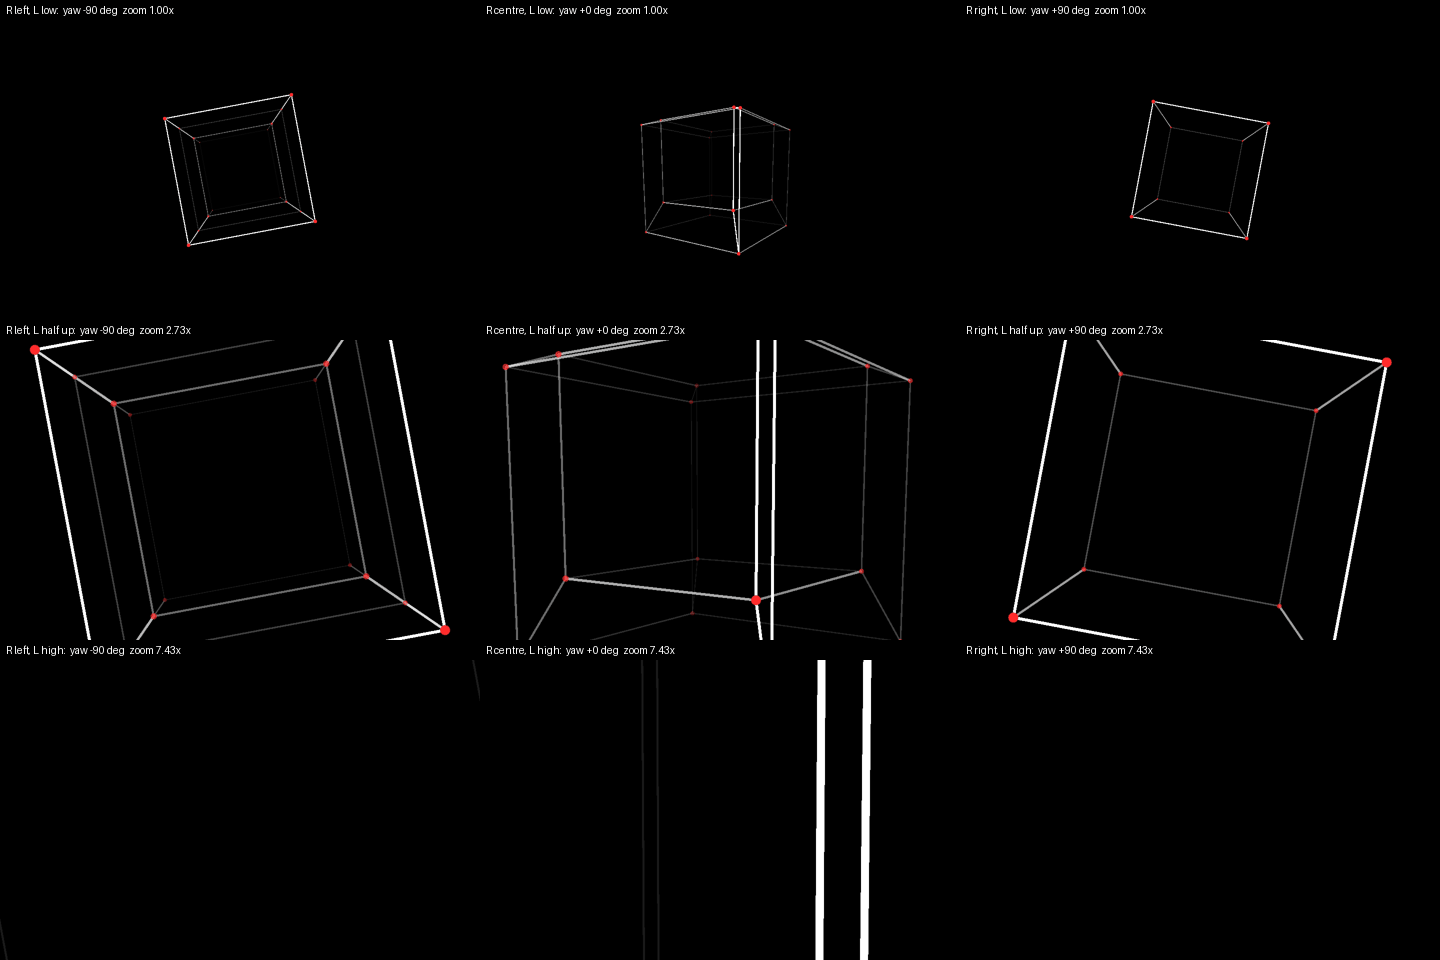
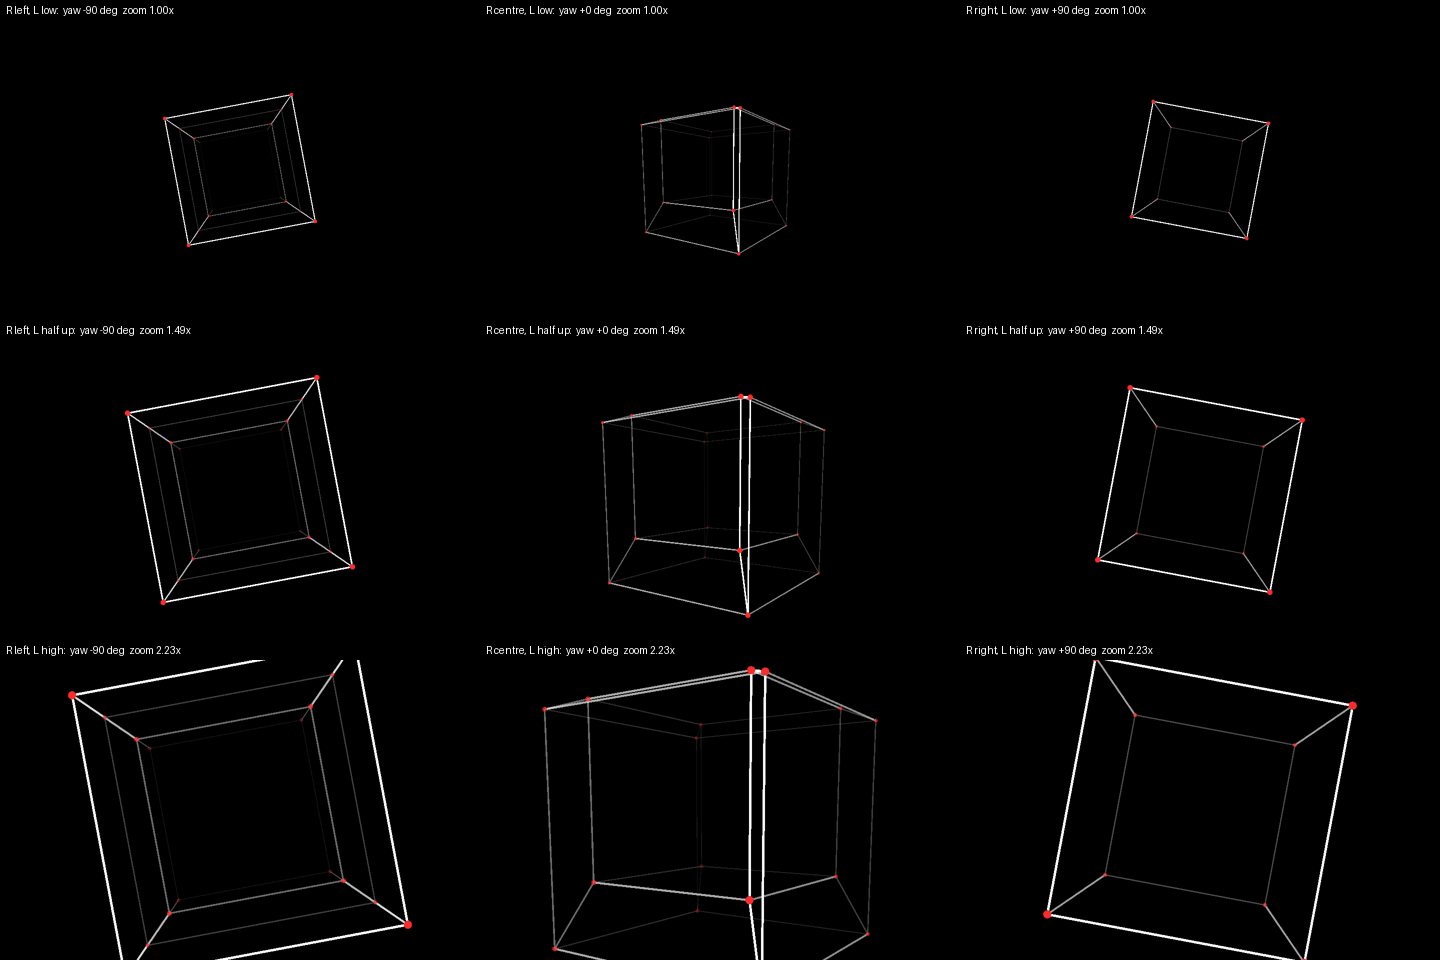
Plan 18 WP4: hands-orbit's zoom depth 0.3 -> 0.12
The plan's 0.3 topped out at 7.43x: the offscreen strip showed the default shape off the frame at half height and a near-black frame at the top. At 0.12 a raised left hand reaches 2.23x; the shape fills the frame and stays recognisable. Preset, sweep table and strip regenerated; still synthetic hands, not felt.

Claude-Session: https://claude.ai/code/session_01Hj4u4h4MoQigGjJMCKHS42

diff --git a/hyperspace-python/tests/test_presets.py b/hyperspace-python/tests/test_presets.py
@@ -903,7 +903,7 @@ def test_a_load_tells_the_listeners_its_name(rig):
 ORBIT = "hands-orbit"
 ORBIT_ROWS = [("hand:right.x", "camera.yaw", 0.5), ("hand:right.pitch", "camera.pitch", 0.5),
               ("hand:left.x", "camera.pan.x", 0.1), ("hand:left.z", "camera.pan.y", 0.1),
-              ("hand:left.y", "camera.zoom", 0.3)]
+              ("hand:left.y", "camera.zoom", 0.12)]      # not the plan's 0.3: 7.4× blacked the frame
 # a camera the mouse moved before the hands came in: a scene-setter's bases
 MOUSE = {"camera.yaw": 0.5, "camera.pitch": -0.2, "camera.zoom": 1.6,
          "camera.pan.x": 120.0, "camera.pan.y": -60.0}
@@ -986,13 +986,13 @@ def test_each_orbit_axis_moves_its_camera_param_as_its_row_says(tmp_path):
     """Each row's axis swept across its range from the default camera: at
     rest the param is its base; the ends are what the depth says — the
     yaw a quarter turn each way, the pitch ±44° (a quarter of its ±1.55
-    range), each pan ±400 px, the zoom up from 1× to 800^0.3 = 7.4× at the
+    range), each pan ±400 px, the zoom up from 1× to 800^0.12 = 2.23× at the
     top and never below the base; the move is monotonic; no other camera
     param moves; the hand leaving brings the base back."""
     ends = {"camera.yaw": (-math.pi / 2, math.pi / 2),
             "camera.pitch": (-0.25 * 3.1, 0.25 * 3.1),
             "camera.pan.x": (-400.0, 400.0), "camera.pan.y": (-400.0, 400.0),
-            "camera.zoom": (1.0, 800 ** 0.3)}
+            "camera.zoom": (1.0, 2.23)}                  # 800 ** 0.12, as measured
     assert math.degrees(ends["camera.pitch"][1]) == pytest.approx(44.4, abs=0.05)
     for k, (source, target, depth) in enumerate(ORBIT_ROWS):
         side, axis = source.split(":")[1].split(".")

diff --git a/hyperspace-python/hyperspace/preset.py b/hyperspace-python/hyperspace/preset.py
@@ -817,7 +817,9 @@ def hands_orbit_routes() -> list[Binding]:
             _push("R", "pitch", "camera.pitch", 0.5),  # fingers up: look down, ±44° (as FACES)
             _push("L", "x", "camera.pan.x", 0.1),      # as FIELD: fly sideways
             _push("L", "z", "camera.pan.y", 0.1),      # as FIELD: reach in
-            _push("L", "y", "camera.zoom", 0.3)]       # raise: zoom in
+            # raise: zoom in, to 2.2× at the top. The plan's 0.3 (7.4×) put the
+            # frame inside the default shape, near black (the WP4 strip)
+            _push("L", "y", "camera.zoom", 0.12)]
 
 
 def effects_on(routes, values: dict[str, Any],
